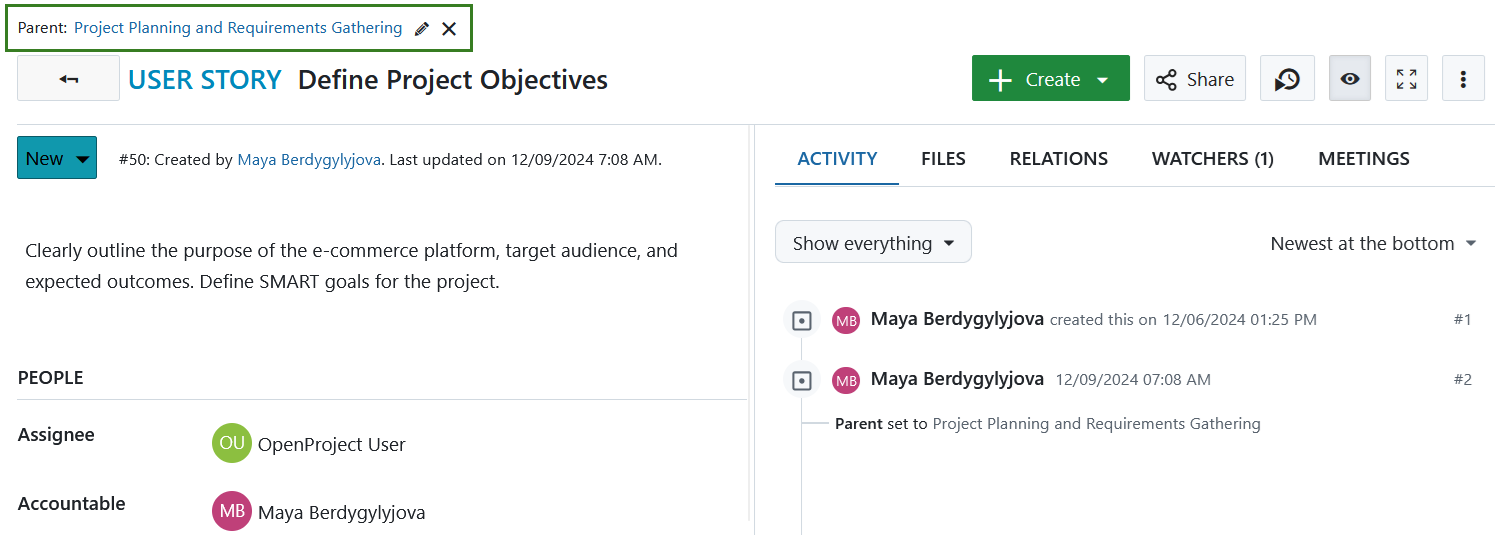
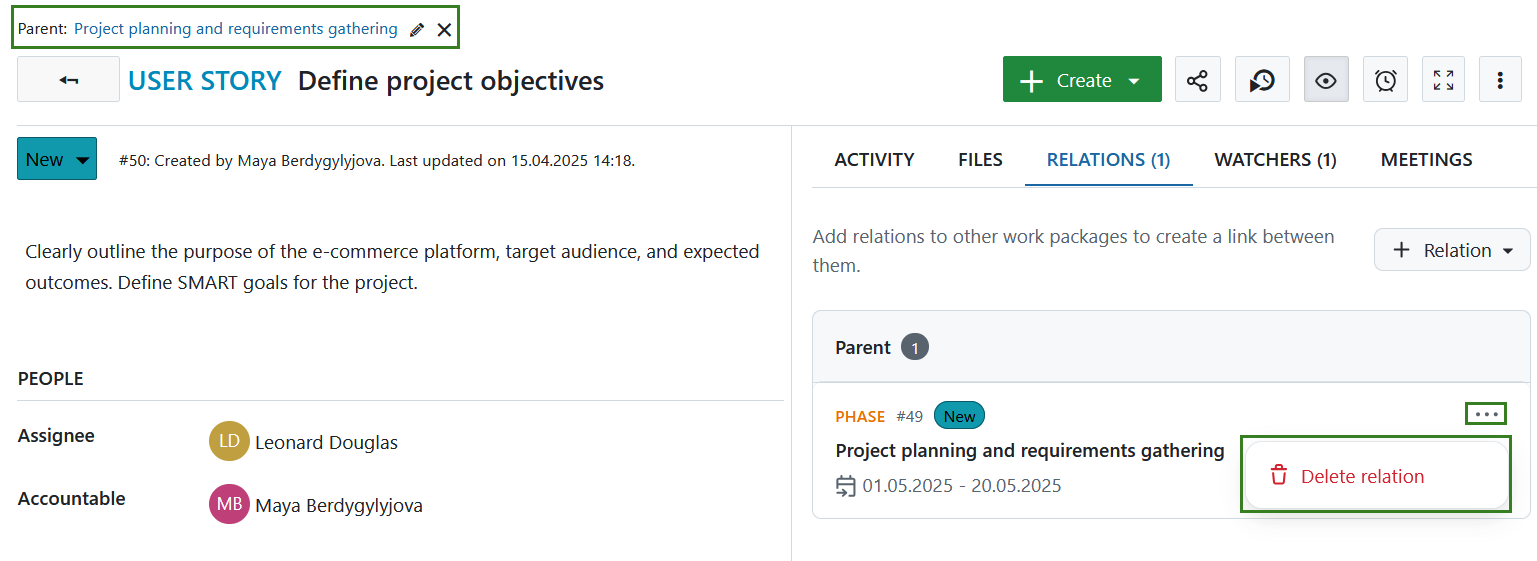
[#63795] Add parent item to relations  https://community.openproject.org/work_packages/63795
[#63795] Add parent item to relations

https://community.openproject.org/work_packages/63795

diff --git a/docs/user-guide/work-packages/work-package-relations-hierarchies/README.md b/docs/user-guide/work-packages/work-package-relations-hierarchies/README.md
@@ -43,6 +43,8 @@ You can select one of the following relations:
 
 - **Related to** - This option adds a link from the work package A to work package B, so that project members can immediately see the connection, even if the work packages are not members of the same hierarchy.
 
+- **Parent**  - This option makes the related work package a parent of the current (child) work package.
+
 - **Duplicates / Duplicated by** - This option indicates that the work package B duplicates a work package A in one way or another, for example both address the same task. This can be useful if you have the same work package that needs to be a part of a closed and public projects at the same time. The connection in this case is only semantic, the changes you make in work package A will need to be adapted in work package B manually.
 
 > [!NOTE]
@@ -139,15 +141,13 @@ For more information on the work package creation take a look at the guideline o
 
 To edit or remove the parent of a work package open the work package. At the top of the details view of the work package you will see the work package hierarchy. Click on the **edit icon** or **delete icon** to change the work package parent.
 
+Alternatively you can select the **Delete relation** option next to the parent relation under *Relations* tab.
+
 ![change parent work package](openproject_user_guide_relations_change_parent.png)
 
 ## Display work package hierarchies
 
 After adding the parent and child work packages they are listed in the *Relations* tab. Related work packages are grouped by the type of relation into respective sections. 
-
-> [!NOTE]
->
-> Only the children are shown in the *Relations* tab and the parent isn't.
 
 >  [!TIP]
 >
